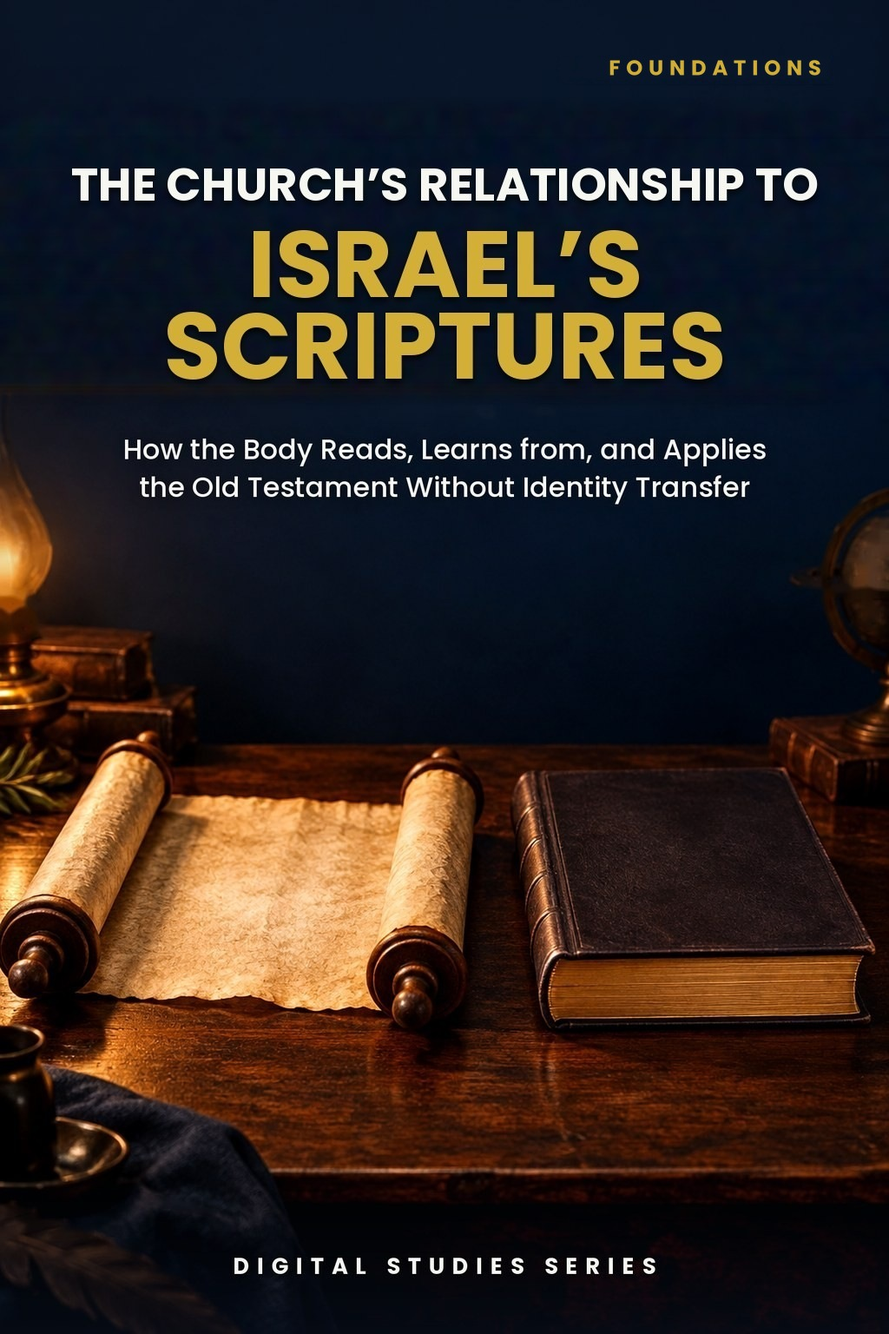
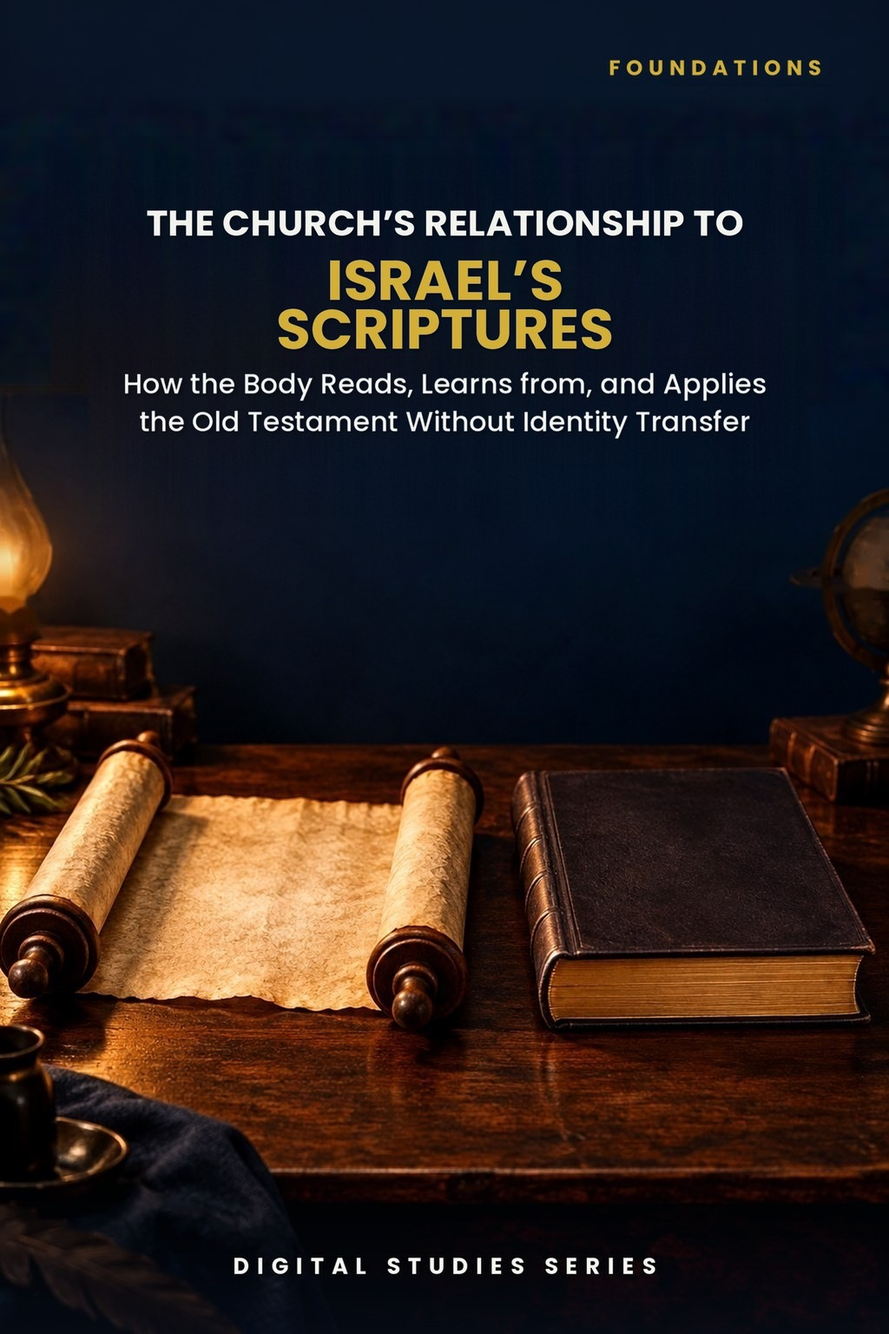
Study 39: Roboto/Standard rebuild, resized cover title, previews 2/3/5, 16 pages; PAM audit v1.70
Claude-Session: https://claude.ai/code/session_01TLNFW47XCW6YAMUxScR3v4

Changed region(s): [[0.0625, 0.125, 0.9375, 0.375]]

diff --git a/study-39-the-churchs-relationship-to-israels-scriptures.html b/study-39-the-churchs-relationship-to-israels-scriptures.html
@@ -2,13 +2,13 @@
 <html lang="en"><head><meta charset="utf-8"><meta name="viewport" content="width=device-width,initial-scale=1"><title>The Church’s Relationship to Israel’s Scriptures | Zay-Marie Press</title><meta name="description" content="Learn how the Body reads and applies Israel’s Scriptures without transferring Israel’s identity, covenants, or promises. Preview Study 39 from Zay-Marie Press."><link rel="stylesheet" href="styles.css?v=20260921-4"><link rel="icon" type="image/png" href="assets/zay-marie-press-favicon.png"><style>
 .study-detail-page{background:#fff;color:#252525}.detail-hero{background:linear-gradient(135deg,#f8f5ec,#e3ece2);padding:58px 0}.detail-hero-grid{display:grid;grid-template-columns:minmax(250px,.72fr) minmax(0,1.28fr);gap:58px;align-items:center}.detail-cover{max-width:390px;margin:auto}.detail-cover img{display:block;width:100%;height:auto;box-shadow:0 14px 36px rgba(8,45,69,.18)}.detail-hero h1{font-size:clamp(2.7rem,5vw,4.7rem);line-height:1.02;margin:8px 0 10px;color:#143823}.detail-subtitle{font-family:Georgia,serif;font-size:1.35rem;font-weight:700;color:#082d45;margin:0 0 7px}.detail-kicker{font-family:Georgia,serif;font-style:italic;font-size:1.05rem;color:#4a4a44;margin:0 0 22px}.detail-copy{font-size:1.08rem;line-height:1.65;max-width:760px}.detail-buyline{display:flex;align-items:center;gap:18px;flex-wrap:wrap;margin-top:25px}.detail-price{font-family:Georgia,serif;font-size:2rem;font-weight:700;color:#143823}.detail-format,.preview-card .page-no{font-family:Arial,sans-serif;font-size:.76rem;font-weight:700;letter-spacing:.1em;text-transform:uppercase;color:#176b3a}.detail-button{display:inline-block;background:#176b3a;color:#fff;padding:13px 22px;font-family:Arial,sans-serif;font-size:.8rem;font-weight:700;letter-spacing:.07em;text-transform:uppercase}.detail-button.pending{opacity:.72;cursor:default}.detail-section{padding:66px 0}.detail-section.soft{background:#f6f7f2}.detail-section.cream{background:#faf8f2}.detail-section h2{color:#143823;margin:6px 0 18px;font-size:clamp(2rem,3.4vw,3rem)}.detail-section .lead{max-width:920px;font-size:1.1rem;line-height:1.62}.study-distinction{max-width:920px;margin-top:28px;margin-bottom:28px;padding:26px 28px;background:#fff;border:1px solid #d8d1bf;border-left:4px solid #b8871c}.study-distinction h3{margin:0 0 10px;color:#143823}.study-distinction p{margin:0 0 14px;line-height:1.62}.study-distinction a{font-family:Arial,sans-serif;font-weight:700;color:#176b3a;text-decoration:none}.study-points{display:grid;grid-template-columns:repeat(3,1fr);gap:18px;margin-top:28px;margin-bottom:28px}.study-point,.scripture-card,.preview-card,.include-item{background:#fff;border:1px solid var(--line);text-align:left}.study-point{border-top:3px solid #176b3a;padding:22px}.study-point h3{color:#143823;margin:0 0 8px;font-size:1.2rem}.study-point p,.scripture-card p,.preview-card p,.include-item p{margin:0;line-height:1.55}.scripture-grid{display:grid;grid-template-columns:repeat(4,1fr);gap:14px;margin-top:24px;margin-bottom:24px}.scripture-card{padding:22px 20px;color:#143823}.scripture-card h3{margin:0 0 9px;font-family:Georgia,serif;font-size:1rem;line-height:1.35}.scripture-card p{font-size:.94rem;color:#45453f}.excerpt{max-width:900px;margin:28px auto;border-left:4px solid #b8871c;padding:10px 0 10px 28px}.excerpt blockquote{font-family:Georgia,serif;font-size:clamp(1.45rem,2.5vw,2rem);line-height:1.45;color:#143823;margin:0 0 16px}.excerpt p{line-height:1.6;margin:0}.preview-grid{display:grid;grid-template-columns:repeat(2,1fr);gap:20px;margin-top:28px;margin-bottom:28px}.preview-card{padding:18px;min-height:210px;box-shadow:0 7px 20px rgba(20,40,25,.05)}.preview-image-link{display:block;margin:0 0 18px}.preview-image-link img{display:block;width:100%;height:auto;border:1px solid #d8d1bf;box-shadow:0 8px 22px rgba(20,40,25,.1);transition:transform .18s ease,box-shadow .18s ease}.preview-image-link:hover img{transform:translateY(-2px);box-shadow:0 11px 28px rgba(20,40,25,.16)}.preview-card h3{color:#143823;margin:8px 0 10px}.preview-instruction{margin:10px 0 0;font-family:Arial,sans-serif;font-size:.78rem;letter-spacing:.04em;color:#5b5b55}.includes-grid{display:grid;grid-template-columns:repeat(4,1fr);gap:14px;margin-top:26px}.include-item{padding:22px 20px;color:#143823}.include-item h3{margin:0 0 9px;font-family:Arial,sans-serif;font-size:.86rem;line-height:1.35;letter-spacing:.02em}.include-item p{font-size:.94rem;color:#45453f}.final-buy{background:#082d45;color:#fff;border-top:4px solid #b8871c;padding:42px 48px;display:grid;grid-template-columns:1fr auto;gap:36px;align-items:center}.final-buy .eyebrow,.final-buy h2,.final-buy .detail-price{color:#fff}.final-buy h2{margin:7px 0 6px}.final-buy p{margin:0}.final-offer{text-align:center}.back-link{display:inline-block;margin-top:18px;color:#143823;font-family:Arial,sans-serif;font-weight:700;text-decoration:none}.preview-lightbox{position:fixed;inset:0;z-index:10000;display:none;align-items:flex-start;justify-content:center;background:rgba(8,22,16,.88);padding:24px;overflow:auto}.preview-lightbox.open{display:flex}.preview-lightbox img{display:block;width:auto;height:auto;max-width:none;box-shadow:0 18px 55px rgba(0,0,0,.4);background:#fff}.preview-lightbox-close{position:fixed;top:18px;right:24px;z-index:10001;width:46px;height:46px;border:1px solid rgba(255,255,255,.65);border-radius:50%;background:rgba(0,0,0,.55);color:#fff;font:32px/1 Arial,sans-serif;cursor:pointer}@media(max-width:900px){.detail-hero-grid{grid-template-columns:1fr;gap:34px}.detail-cover{max-width:330px}.study-points{grid-template-columns:repeat(2,1fr)}.scripture-grid,.includes-grid{grid-template-columns:repeat(2,1fr)}.preview-grid,.final-buy{grid-template-columns:1fr}.final-offer{text-align:left}}@media(max-width:560px){.detail-hero{padding:42px 0}.detail-section{padding:50px 0}.study-points,.scripture-grid,.includes-grid{grid-template-columns:1fr}.final-buy{padding:32px 24px}.detail-buyline{align-items:flex-start;flex-direction:column;gap:8px}.preview-lightbox{padding:58px 10px 24px}.preview-lightbox img{width:100%;max-width:100%;height:auto}}</style></head><body class="study-detail-page">
 <header class="site-header"><div class="wrap nav"><a class="logo" href="index.html" aria-label="Zay-Marie Press home"><img src="assets/zay-marie-press-logo-hq.png" alt="Zay-Marie Press" width="420" height="238"></a><button class="menu-toggle" type="button" aria-expanded="false" aria-controls="primary-nav">MENU</button><nav aria-label="Primary navigation" class="primary-nav" id="primary-nav"><a href="index.html">HOME</a><a href="books.html">BOOKS</a><a href="series.html">SERIES</a><a class="active" aria-current="page" href="digital-studies.html">DIGITAL STUDIES</a><a href="biblical-hermeneutics-course.html">COURSE</a><a href="about.html">ABOUT</a><a href="resources.html">RESOURCES</a><a href="contact.html">CONTACT</a></nav></div></header><main>
-<section class="detail-hero"><div class="wrap detail-hero-grid"><div class="detail-cover"><picture><source srcset="assets/study-39-cover.webp" type="image/webp"><img src="assets/study-39-cover.jpg" alt="The Church’s Relationship to Israel’s Scriptures cover"></picture></div><div><div class="eyebrow">BIBLICAL INTERPRETATION · DIGITAL STUDY</div><h1>The Church’s Relationship to Israel’s Scriptures</h1><p class="detail-subtitle">How the Body Reads, Learns from, and Applies the Old Testament Without Identity Transfer</p><p class="detail-kicker">A focused method for receiving Israel’s Scriptures as inspired instruction</p><p class="detail-copy">Paul says earlier writings were given for our learning, and Israel’s history warns and instructs believers. Those benefits do not make the Body the original recipient of Israel’s covenants, national promises, or prophetic restoration.</p><p class="detail-copy">This study works through Law, poetry, prophecy, and Paul’s use of Genesis. For each passage, identify its first audience, the lesson Scripture warrants, and the present instruction that governs the Body.</p><div class="detail-buyline"><span class="detail-price">$5.99</span><span class="detail-format">Digital PDF · 16 Pages</span><span class="detail-button pending" aria-disabled="true">Checkout Coming Soon</span></div></div></div></section>
+<section class="detail-hero"><div class="wrap detail-hero-grid"><div class="detail-cover"><picture><source srcset="assets/study-39-cover.webp" type="image/webp"><img src="assets/study-39-cover.jpg" alt="The Church’s Relationship to Israel’s Scriptures cover"></picture></div><div><div class="eyebrow">STUDY 39 · DIGITAL STUDY</div><h1>The Church’s Relationship to Israel’s Scriptures</h1><p class="detail-subtitle">How the Body Reads, Learns from, and Applies the Old Testament Without Identity Transfer</p><p class="detail-kicker">A focused method for receiving Israel’s Scriptures as inspired instruction</p><p class="detail-copy">Paul says earlier writings were given for our learning, and Israel’s history warns and instructs believers. Those benefits do not make the Body the original recipient of Israel’s covenants, national promises, or prophetic restoration.</p><p class="detail-copy">This study works through Law, poetry, prophecy, and Paul’s use of Genesis. For each passage, identify its first audience, the lesson Scripture warrants, and the present instruction that governs the Body.</p><div class="detail-buyline"><span class="detail-price">$5.99</span><span class="detail-format">Digital PDF · 16 Pages</span><span class="detail-button pending" aria-disabled="true">Checkout Coming Soon</span></div></div></div></section>
 <section class="detail-section"><div class="wrap"><div class="eyebrow">ABOUT THIS STUDY</div><h2>Profitable Scripture With Its Audience Intact</h2><p class="lead">The Church should read Israel’s Scriptures closely. They reveal God’s character and works, testify to Christ, expose sin, and supply hope and warning. Their value is clearest when the reader preserves what God said, to whom He said it, and in what setting.</p><p class="lead">Study 39 gives a repeatable way to move from original meaning to valid present application. It tests common claims drawn from Sabbath, national blessing, exile, tithes, and the Psalms against Paul’s actual uses and governing instruction.</p><p class="lead">This is not a study of the Abrahamic covenant’s own terms, which Study 17 establishes in Genesis, nor of Paul’s specific uses of Abraham’s history, which Study 40 traces as a worked example, nor of the parallel question for Acts narratives, which Study 38 answers on its own terms. Its task is broader: to supply the repeatable method itself — preserving what God said, to whom, and in what setting — that each of those studies applies to its own passage.</p><div class="study-distinction"><h3>How These Studies Relate</h3><p>Study 39 gives a method for learning from Israel’s Scriptures while retaining their original audience and covenant setting.</p><p><a href="study-17-the-abrahamic-covenant.html">Study 17 — The Abrahamic Covenant</a> Practice the method on the Abrahamic covenant in Genesis: identify its line, national promises, and blessing before claiming present application.</p><p><a href="study-40-who-is-abrahams-seed.html">Study 40 — Who Is Abraham’s Seed?</a> See how Paul uses that history in Romans and Galatians; his specific arguments provide a worked example of learning from Israel’s Scriptures without transferring Israelite identity.</p><p><a href="study-38-why-acts-is-not-a-universal-experience-manual.html">Study 38 — Why Acts Is Not a Universal Experience Manual</a> Apply related audience and authority questions to events narrated in Acts, where the issue is whether an action creates a present obligation.</p><p class="connection-guide-link"><a href="study-connections.html#study-39">Explore the full connection guide for Study 39 →</a></p></div></div></section>
-<section class="detail-section soft"><div class="wrap"><div class="eyebrow">WHAT YOU’LL STUDY</div><h2>Move From Original Meaning to Warranted Application</h2><div class="study-points"><div class="study-point"><h3>All Scripture Is Profitable</h3><p>Read Romans 15:4, 1 Corinthians 10, and 2 Timothy 3 for the particular benefits Paul draws from earlier writings.</p></div><div class="study-point"><h3>Original Audience and Genre</h3><p>Identify the people, covenant setting, literary form, and stated claim before moving to present application.</p></div><div class="study-point"><h3>Law and National Promise</h3><p>Examine Sabbath observance and Deuteronomy’s national blessings without assigning their covenant terms to the Body.</p></div><div class="study-point"><h3>Poetry and Prophetic Hope</h3><p>Learn from Psalm 23 and Jeremiah’s letter while respecting David’s voice and Judah’s promised return.</p></div><div class="study-point"><h3>Paul’s Use of Abraham</h3><p>Follow Romans 4 and Galatians 3 where Paul draws a point about faith and blessing from Genesis.</p></div><div class="study-point"><h3>Responsible Application</h3><p>State an original claim, valid lesson, governing present instruction, and excluded identity or promise transfer.</p></div></div></div></section>
+<section class="detail-section soft"><div class="wrap"><div class="eyebrow">WHAT YOU’LL STUDY</div><h2>Move From Original Meaning to Warranted Application</h2><div class="study-points"><div class="study-point"><h3>All Scripture Is Profitable</h3><p>Read Romans 15:4, 1 Corinthians 10, and 2 Timothy 3 for the particular benefits Paul draws from earlier writings.</p></div><div class="study-point"><h3>Original Audience and Genre</h3><p>Identify the people, covenant setting, literary form, and stated claim before moving to present application.</p></div><div class="study-point"><h3>Law and National Promise</h3><p>Examine Sabbath observance and Deuteronomy’s national blessings by tracing who is addressed and what conditions each text names.</p></div><div class="study-point"><h3>Poetry and Prophetic Hope</h3><p>Learn from Psalm 23 and Jeremiah’s letter while respecting David’s voice and Judah’s promised return.</p></div><div class="study-point"><h3>Paul’s Use of Abraham</h3><p>Follow Romans 4 and Galatians 3 where Paul draws a point about faith and blessing from Genesis.</p></div><div class="study-point"><h3>Responsible Application</h3><p>State an original claim, valid lesson, governing present instruction, and excluded identity or promise transfer.</p></div></div></div></section>
 <section class="detail-section cream"><div class="wrap"><div class="eyebrow">KEY SCRIPTURES</div><h2>Compare the Earlier Text and Its Apostolic Use</h2><div class="scripture-grid"><div class="scripture-card"><h3>2 Timothy 3:14–17</h3><p>All Scripture is God-breathed and profitable for teaching, correction, and training.</p></div><div class="scripture-card"><h3>Romans 15:1–7</h3><p>Earlier writings furnish learning, endurance, encouragement, and hope within Paul’s argument.</p></div><div class="scripture-card"><h3>1 Corinthians 10:1–14</h3><p>Israel’s wilderness history warns the Corinthians without changing their identity.</p></div><div class="scripture-card"><h3>Exodus 20:8–11; 31:12–17</h3><p>The Sabbath command and sign have an identified covenant audience.</p></div><div class="scripture-card"><h3>Deuteronomy 28</h3><p>National blessings and curses must be read within Moses’ address to Israel.</p></div><div class="scripture-card"><h3>Psalm 23; Jeremiah 29:4–14</h3><p>Poetic trust and the exiles’ promised return provide distinct kinds of instruction.</p></div><div class="scripture-card"><h3>Genesis 15:6; Romans 4:1–12</h3><p>Paul draws a precise argument about faith and righteousness from Abraham’s history.</p></div><div class="scripture-card"><h3>Malachi 3:8–12; 2 Corinthians 8–9</h3><p>Compare Israel’s tithe and storehouse setting with Paul’s instruction about giving.</p></div></div></div></section>
 <section class="detail-section"><div class="wrap"><div class="eyebrow">FROM THE STUDY</div><h2>Written for Our Learning</h2><div class="excerpt"><blockquote>“A passage may be written for our learning without being addressed to us as its original covenant recipient.”</blockquote><p>The study draws genuine instruction from earlier writings while keeping each passage’s original claim and audience visible.</p></div></div></section>
-<section class="detail-section soft"><div class="wrap"><div class="eyebrow">A LOOK INSIDE</div><h2>Preview the Study Before You Purchase</h2><p class="preview-instruction">Click any page to enlarge it for reading.</p><div class="preview-grid"><div class="preview-card"><a class="preview-image-link" data-preview-lightbox href="assets/study-39-page-3.jpg"><img src="assets/study-39-page-3.jpg" alt="Study 39 page 3: Learning Outcomes and Study Goal"></a><div class="page-no">Page 3</div><h3>Learning Outcomes and Study Goal</h3><p>See the study’s reader outcomes, central aim, and route through Israel’s Scriptures.</p></div><div class="preview-card"><a class="preview-image-link" data-preview-lightbox href="assets/study-39-page-6.jpg"><img src="assets/study-39-page-6.jpg" alt="Study 39 page 6: Law and Sabbath"></a><div class="page-no">Page 6</div><h3>Law and Sabbath</h3><p>Review the application control and the Sabbath’s original covenant setting.</p></div><div class="preview-card"><a class="preview-image-link" data-preview-lightbox href="assets/study-39-page-9.jpg"><img src="assets/study-39-page-9.jpg" alt="Study 39 page 9: Paul’s Use of Abraham"></a><div class="page-no">Page 9</div><h3>Paul’s Use of Abraham</h3><p>Follow Paul’s inference from Genesis while keeping the covenant history intact.</p></div><div class="preview-card"><a class="preview-image-link" data-preview-lightbox href="assets/study-39-page-12.jpg"><img src="assets/study-39-page-12.jpg" alt="Study 39 page 12: A Reading Procedure"></a><div class="page-no">Page 12</div><h3>A Reading Procedure</h3><p>Use written questions to classify direct, principled, and historical applications.</p></div></div></div></section>
+<section class="detail-section soft"><div class="wrap"><div class="eyebrow">A LOOK INSIDE</div><h2>Preview the Study Before You Purchase</h2><p class="preview-instruction">Click any page to enlarge it for reading.</p><div class="preview-grid"><div class="preview-card"><a class="preview-image-link" data-preview-lightbox href="assets/study-39-page-2.jpg"><img src="assets/study-39-page-2.jpg" alt="Study 39 interior preview — page 2, table of contents"></a><div class="page-no">Page 2</div><h3>Table of Contents</h3><p>See the full structure of the study, from the introduction through the final synthesis.</p></div><div class="preview-card"><a class="preview-image-link" data-preview-lightbox href="assets/study-39-page-3.jpg"><img src="assets/study-39-page-3.jpg" alt="Study 39 interior preview — page 3, what you will learn"></a><div class="page-no">Page 3</div><h3>What You Will Learn</h3><p>See the reader outcomes, central aim, and route through Israel’s Scriptures.</p></div><div class="preview-card"><a class="preview-image-link" data-preview-lightbox href="assets/study-39-page-5.jpg"><img src="assets/study-39-page-5.jpg" alt="Study 39 interior preview — page 5, a passage-by-passage route"></a><div class="page-no">Page 5</div><h3>A Passage-by-Passage Route</h3><p>Follow the questions that move from a passage’s own claim to a warranted present lesson.</p></div></div></div></section>
 <section class="detail-section"><div class="wrap"><div class="eyebrow">WHAT’S INCLUDED</div><h2>A Focused Study for<br>Careful Reading and Responsible Application</h2><div class="includes-grid"><div class="include-item"><h3>Focused Biblical Study</h3><p>A sustained treatment of how Israel’s Scriptures instruct the Body without changing their original recipients.</p></div><div class="include-item"><h3>Twelve Teaching Sections</h3><p>Follow the argument from scriptural authority through Law, poetry, prophecy, Pauline use, and a reading procedure.</p></div><div class="include-item"><h3>Worked Passage Readings</h3><p>Apply the method to Sabbath, Deuteronomy 28, Psalm 23, Jeremiah 29, Abraham, and giving.</p></div><div class="include-item"><h3>Apostolic Controls</h3><p>Test proposed present obligations against the use Paul actually makes of earlier writings.</p></div><div class="include-item"><h3>Key Distinctions</h3><p>Keep audience, authority, participation, analogy, and hope clear as passages move into application.</p></div><div class="include-item"><h3>Scripture-Tracing Exercise</h3><p>Read paired passages in context and record both warranted lessons and excluded transfers.</p></div><div class="include-item"><h3>Guided Further Study</h3><p>Investigate additional passages with assigned observations and concise written conclusions.</p></div><div class="include-item"><h3>Digital PDF</h3><p>A formatted resource for careful reading, teaching preparation, and personal study.</p></div></div></div></section>
-<section class="detail-section cream"><div class="wrap"><div class="final-buy"><div><div class="eyebrow">BIBLICAL INTERPRETATION · DIGITAL STUDY</div><h2>The Church’s Relationship to Israel’s Scriptures</h2><p>Digital PDF · 16 Pages · For personal use</p></div><div class="final-offer"><div class="detail-price">$5.99</div><span class="detail-button pending" aria-disabled="true">Checkout Coming Soon</span></div></div><a class="back-link" href="digital-studies.html">← Back to All Digital Studies</a></div></section><section class="study-method-course-bridge"><div class="wrap"><div class="study-method-course-panel"><div><div class="eyebrow">BUILD THE INTERPRETIVE METHOD</div><h2>Want More Than a Focused Study?</h2><p>Digital Studies examine particular biblical subjects and difficult passages. The 40-lesson Biblical Hermeneutics course teaches a complete, repeatable method for establishing meaning in context, determining proper assignment, and making responsible application.</p></div><a class="btn btn-primary" href="biblical-hermeneutics-course.html">BIBLICAL HERMENEUTICS COURSE</a></div></div></section>
+<section class="detail-section cream"><div class="wrap"><div class="final-buy"><div><div class="eyebrow">STUDY 39 · DIGITAL STUDY</div><h2>The Church’s Relationship to Israel’s Scriptures</h2><p>Digital PDF · 16 Pages · For personal use</p></div><div class="final-offer"><div class="detail-price">$5.99</div><span class="detail-button pending" aria-disabled="true">Checkout Coming Soon</span></div></div><a class="back-link" href="digital-studies.html">← Back to All Digital Studies</a></div></section><section class="study-method-course-bridge"><div class="wrap"><div class="study-method-course-panel"><div><div class="eyebrow">BUILD THE INTERPRETIVE METHOD</div><h2>Want More Than a Focused Study?</h2><p>Digital Studies examine particular biblical subjects and difficult passages. The 40-lesson Biblical Hermeneutics course teaches a complete, repeatable method for establishing meaning in context, determining proper assignment, and making responsible application.</p></div><a class="btn btn-primary" href="biblical-hermeneutics-course.html">BIBLICAL HERMENEUTICS COURSE</a></div></div></section>
 </main>
 <div class="preview-lightbox" id="preview-lightbox" role="dialog" aria-modal="true" aria-label="Expanded study preview"><button class="preview-lightbox-close" type="button" aria-label="Close preview">×</button><img id="preview-lightbox-image" alt=""></div><footer class="site-footer"><div class="wrap footer-grid"><div class="footer-about"><h3>Zay-Marie Press</h3><p class="footer-tagline"><em>Where the Bible Means What It Says.</em></p><p>Zay-Marie Press is a Christian theological publisher dedicated to producing doctrinally precise, carefully structured biblical resources that equip pastors, teachers, and serious students with clarity, depth, and Scripture-anchored truth.</p><p><a href="https://zaymariepress.com">zaymariepress.com</a><br><a href="mailto:info@zaymariepress.com">info@zaymariepress.com</a></p></div><div class="footer-column"><h3>Explore</h3><div class="footer-links-stacked"><a href="books.html">Books</a><br><a href="series.html">Series</a><br><a href="biblical-hermeneutics-course.html">Course</a><br><a href="digital-studies.html">Digital Studies</a><br><a href="resources.html">Resources</a><br><a href="bible-book-summaries.html">Bible Book Summaries</a><br><a href="doctrinal-packets.html">Doctrinal Packets</a><br><a href="historical-drift.html">Historical Drift</a><br><a href="about.html">About</a><br><a href="contact.html">Contact</a></div></div><div class="footer-column"><h3>Reader Support</h3><div class="footer-links-stacked"><a href="reader-support.html#faq">FAQ</a><br><a href="reader-support.html#shipping-returns">Shipping &amp; Returns</a><br><a href="reader-support.html#digital-downloads">Digital Downloads</a><br><a href="reader-support.html#contact-support">Contact Support</a></div></div><div class="footer-column"><h3>Acts Overlap</h3><p><strong>Acts Overlap Theology Series</strong></p><p><em>Two Distinct Streams. One Overlap.</em></p><p><a href="series.html">Series Overview</a></p></div></div><div class="wrap footer-bottom">© 2026 Zay-Marie Press. All rights reserved.</div></footer><script src="site.js"></script><script>const lightbox=document.getElementById('preview-lightbox'),lightboxImage=document.getElementById('preview-lightbox-image'),closeLightbox=()=>{lightbox.classList.remove('open');lightboxImage.src='';};document.querySelectorAll('[data-preview-lightbox]').forEach(link=>link.addEventListener('click',event=>{event.preventDefault();lightboxImage.src=link.href;lightboxImage.alt=link.querySelector('img').alt;lightbox.classList.add('open');}));document.querySelector('.preview-lightbox-close').addEventListener('click',closeLightbox);lightbox.addEventListener('click',event=>{if(event.target===lightbox)closeLightbox();});document.addEventListener('keydown',event=>{if(event.key==='Escape')closeLightbox();});</script></body></html>

diff --git a/controlling-documents/Digital_Studies_PAM_Audit_v1.70.md b/controlling-documents/Digital_Studies_PAM_Audit_v1.70.md
@@ -1,4 +1,4 @@
-# Digital Studies vs. PAM Audit — v1.69
+# Digital Studies vs. PAM Audit — v1.70
 
 Working tracker and instructions for checking the Digital Studies against the Program Assignment Manual (PAM), §XIX of `Framework_Control_Document_Acts_Overlap.docx`, including its "Section 4 — Publisher Rulings". Same `_vX.Y` convention as the other controlling documents: update the status table and changelog as the audit proceeds, bump the version, and rename the file to match.
 
@@ -299,3 +299,4 @@ Study 15 PDF not yet supplied. Typography: none of Studies 2, 3, 6, 8 is in EB G
 - v1.67 (2026-10-01): Study 36 (Jews, Gentiles, and the Church of God) read in full against the PAM and Framework from the publisher's DOCX (about 13 interior pages in source): no conflicts; Rule 7 wording applied. The remnant clarifier ("This speaks of identity, not program membership; the remnant is ethnic-covenantal, and believing Jews are gathered into the Body during the Mystery administration") was added to §11 ¶1 and the Key Distinctions remnant row; Review Question 10 ("Why must the believing remnant not be collapsed into the Body…") was reworded to compare the remnant (identity category) with the Body (administrative category); the §10 table's "Israel, the remnant, circumcision apostleship" became "Israel and the circumcision apostleship". One new publisher ruling, now Rule 7 (Framework, Master Standard v1.34, CLAUDE.md): Peter's believing company and the circumcision apostleship during Acts 9–28 may be described as under the Prophecy Program only with the clarification "During the overlap, the circumcision apostleship ministers to Israel under the Prophecy Program; believing Jews are gathered into the Body through Paul's ministry, and this speaks of identity, not program membership"; no believing Israelite is placed outside the Body after Acts 9. The clarification was added in the §10 intro, §11 ¶2 and the Conclusion. Galatians 2:7–9 reported as text with two entrusted spheres, no further assignment. Acts overlap, 1 Cor 12:13, Eph 2–3, Rom 1–3, 9–11 and 15, Gal 3 and Phil 3 clear. Spoiler fixes (§17): What You Will Learn bullets 2–7 and the Study Goal rewritten as process lines; website What You'll Study points 4 and 6 reworded. Five callouts already (CATEGORY CONTROL split from its table). Rebuilt to the Roboto/Standard format; one neutral KJV table of 17 passages added to the Scripture-Tracing section; 15 interior pages plus cover (16 total, site.js 36:16). Cover: publisher-supplied finished cover (680×1024, scaled up), FOUNDATIONS label, title reduced 40% and hyphenated on the cover only ("THREE-FOLD"; the study subtitle and website still read "Threefold"). Previews: pages 2, 3 and 5 (replace four prior previews on pages 3, 6, 8, 11). Hero and final-buy eyebrows changed from BIBLICAL DOCTRINE to STUDY 36 · DIGITAL STUDY; page counts 15 → 16. Pushed after the publisher's approval.
 - v1.68 (2026-10-01): Study 37 (What Does Paul Mean by "New Creation"?) read in full against the PAM and Framework from the publisher's DOCX (REVISED; about 13 interior pages in source): no conflicts; Rule 7 wording applied under the standing rules. "As Study 35 demonstrates" became "As Study 35 examines" (pointer only, PAM Rule 3); the Rule 7 Gal 6:16 sentence ("Read in the context of Galatians 6:16, the expression refers to believing Jews within the Body—Israelites by identity") was added in §6; the remnant clarifier was added in a note after the §10 table; the overlap clarification was added to §11. Acts overlap, Mystery from Acts 9, Acts 28 national judicial suspension, 2 Cor 5 judgment-seat context (Mystery), Eph 2–3, Rom 6/8/12, Isaiah 65–66, Ezekiel 36–37 and Jeremiah 31 (Prophecy Program; Body not a party) all clear. Spoiler fixes (§17): What You Will Learn bullets 3–7 and the Study Goal rewritten as process lines; website What You'll Study "Continuing Renewal" reworded. Seven callouts reduced to five boxed (Scope of This Study and Context Control became run-ins); three unnumbered H1s and two H3s became H2 subsections; rebuilt to the Roboto/Standard format; one neutral KJV table of 16 passages added to the Scripture-Tracing section; 15 interior pages plus cover (16 total, site.js 37:16). Cover: publisher-supplied finished cover (685×1024, scaled up), BODY OF CHRIST label, title reduced 25% and then a further 15% (about 64% of original; background rebuilt). Previews: pages 2, 3 and 5 (replace pages 3, 7, 9, 11). Hero and final-buy eyebrows changed from BIBLICAL DOCTRINE to STUDY 37 · DIGITAL STUDY; page counts 15 → 16. Pushed after the publisher's approval.
 - v1.69 (2026-10-01): Study 38 (Why Acts Is Not a Universal Experience Manual) read in full against the PAM and Framework from the publisher's DOCX (FINAL; about 13 interior pages in source): Rules 7–10 wording applied. The "cannot be flattened" learning-outcome sentence became a process statement (§17); the Romans–Philemon governing-doctrine sentence now carves out Romans 11:25 and 2 Corinthians 3:6 as Prophecy content read as the Framework assigns them; the Acts 21 comparison carries the approved overlap clarification. Rebuilt to the Roboto/Standard format at 16 pages (cover + 15) with four neutral KJV rows added to the Scripture-Tracing table (Acts 8:14–17, 16:6–10; 1 Cor 13:8–10; Eph 3:1–6). Category: Foundations. Cover: publisher-supplied finished cover (label FOUNDATIONS), scaled to 1600×2400 and exported at 1024×1536 (jpg/webp). Website: eyebrow set to "STUDY 38 · DIGITAL STUDY"; previews now pages 2 (Table of Contents), 3 (What You Will Learn) and 5 (Pentecost and Communal Life); old page-7 preview removed. Approved by the publisher 2026-10-01.
+- v1.70 (2026-10-01): Study 39 (The Church's Relationship to Israel's Scriptures) read in full against the PAM and Framework from the publisher's DOCX (FINAL REVIEW; about 13 interior pages in source): no conflicts; Rules 7–10 wording applied under the standing rules and noted in one line each. §9: "suspended at Acts 28" became national judicial suspension from Acts 28, with the approved overlap clarification added; the Rule 8 anchoring sentence added at first use of 2 Timothy (§1) and Philippians (§5); "Gentiles participate spiritually" added to the Galatians 3 paragraph; Acts 8 (Ethiopian official) marked as Prophecy Program period and not Body doctrine; the "What You Will Learn" Romans 4 sentence reworded to process wording (§17). Rebuilt to the Roboto/Standard format at 16 pages (cover + 15) with an 18-row neutral KJV Scripture-Tracing table; Roman-numeral Teaching Outline became bullets; Key Distinctions became a two-column table; Promise Control and Christological Control became bold run-ins (five boxed callouts kept). Category: Foundations. Cover: website cover, "ISRAEL'S SCRIPTURES" reduced 40%, "THE CHURCH'S RELATIONSHIP TO" reduced 20%, spacing between title lines and subtitle tightened at the publisher's direction. Website: eyebrow set to "STUDY 39 · DIGITAL STUDY"; previews now pages 2 (Table of Contents), 3 (What You Will Learn) and 5 (A Passage-by-Passage Route); the old pages 6, 9 and 12 removed; one "What You'll Study" point reworded. Approved by the publisher 2026-10-01.
